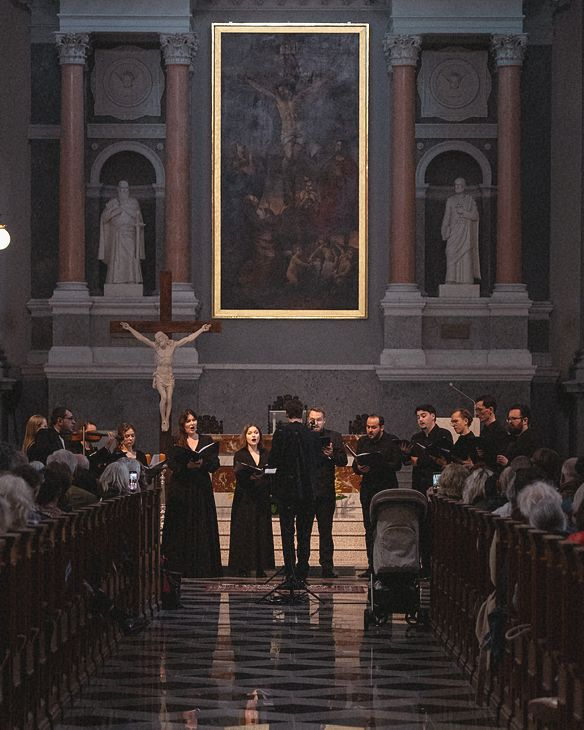
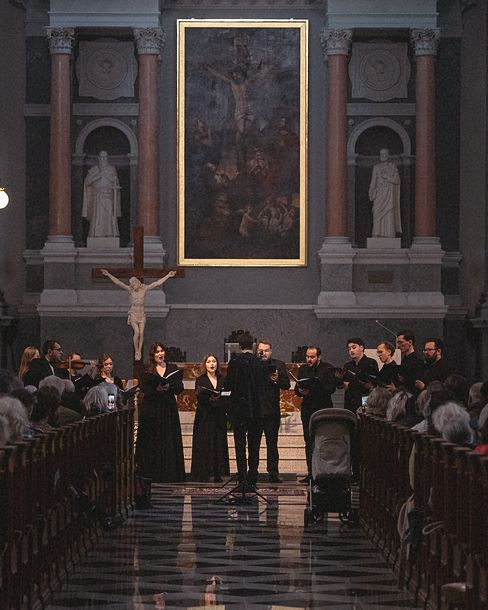
fix(outreach): the Pochwała Stworzenia letter's photographs in the prose's column
Taken to the sheet's edge, a pale photograph left the dark sheet no edge
where it lay on a white inbox: the church's pillars ran straight into the
client's ground. The pair and the church now stand between the prose's
gutters, 48px and 24px on a phone, and only the staves still cross the
sheet. The files are redrawn at exactly twice the new size, so their baked
grain keeps the sheet's scale. Revision 4 stands: no address carrying it
has been served yet.

diff --git a/backend/templates/emails/letter_pochwala_stworzenia.html b/backend/templates/emails/letter_pochwala_stworzenia.html
@@ -76,9 +76,13 @@
     line stand in the same place in both and what changes between them is the pews, empty and
     then full. Then the church turned round (audience.jpg): the nave seen from the altar, cut
     just above the photographer standing in the aisle, which also keeps the front rows out,
-    where single faces and children are recognisable. The pair is 292px each at 4:5 on a 16px
-    gutter, edge to edge like the staves, and the church takes the whole sheet beneath them
-    (600px, 5:4) and leads straight into the last staff. No caption explains the pair; the
+    where single faces and children are recognisable. The photographs stand in the prose's
+    column (504px between its 48px gutters, 24px on a phone), and only the staves run edge to
+    edge: a pale photograph taken to the edge of a sheet lying on a white inbox leaves the sheet
+    no edge there, the church's pillars dissolving into the client's ground. The pair is 244px
+    each at 4:5 on a 16px gutter, the church 504px at 5:4 beneath them, leading straight into
+    the last staff; each file is drawn at exactly 2x, so its baked grain matches the sheet's
+    on a desktop. No caption explains the pair; the
     alts say "the same view" for a reader who hears them. The rehearsal frame comes from the
     other camera, warmer and darker, and is drawn to the concert frame's tone by a per-channel
     curve, so the difference the eye finds is the people and not the grade. Sources and boxes
@@ -142,14 +146,14 @@ a { color: #d65a3c; }
     <div style="padding-top:16px;">{{ copy.otherwise }}</div>
   </td></tr>
 
-  <tr><td style="padding:64px 0 0;">
+  <tr><td class="col" style="padding:64px 48px 0;">
     <table role="presentation" width="100%" cellpadding="0" cellspacing="0" border="0"><tr>
-      <td width="292" valign="top" style="width:48.667%; font-size:0; line-height:0;"><a href="{{ page_url }}" style="text-decoration:none;"><img src="{{ asset_url }}/rehearsal.jpg{{ asset_query }}" width="292" height="365" alt="{{ copy.photo_alts.0 }}" style="display:block; width:100%; height:auto; border:0; color:#8f887c; font-family:'Palatino Linotype', Palatino, Georgia, serif; font-size:15px;"></a></td>
-      <td width="16" style="width:2.667%; font-size:0; line-height:0;">&nbsp;</td>
-      <td width="292" valign="top" style="width:48.667%; font-size:0; line-height:0;"><a href="{{ page_url }}" style="text-decoration:none;"><img src="{{ asset_url }}/concert.jpg{{ asset_query }}" width="292" height="365" alt="{{ copy.photo_alts.1 }}" style="display:block; width:100%; height:auto; border:0; color:#8f887c; font-family:'Palatino Linotype', Palatino, Georgia, serif; font-size:15px;"></a></td>
+      <td width="244" valign="top" style="width:48.413%; font-size:0; line-height:0;"><a href="{{ page_url }}" style="text-decoration:none;"><img src="{{ asset_url }}/rehearsal.jpg{{ asset_query }}" width="244" height="305" alt="{{ copy.photo_alts.0 }}" style="display:block; width:100%; height:auto; border:0; color:#8f887c; font-family:'Palatino Linotype', Palatino, Georgia, serif; font-size:15px;"></a></td>
+      <td width="16" style="width:3.175%; font-size:0; line-height:0;">&nbsp;</td>
+      <td width="244" valign="top" style="width:48.413%; font-size:0; line-height:0;"><a href="{{ page_url }}" style="text-decoration:none;"><img src="{{ asset_url }}/concert.jpg{{ asset_query }}" width="244" height="305" alt="{{ copy.photo_alts.1 }}" style="display:block; width:100%; height:auto; border:0; color:#8f887c; font-family:'Palatino Linotype', Palatino, Georgia, serif; font-size:15px;"></a></td>
     </tr></table>
   </td></tr>
-  <tr><td style="padding:16px 0 0; font-size:0; line-height:0;"><a href="{{ page_url }}" style="text-decoration:none;"><img src="{{ asset_url }}/audience.jpg{{ asset_query }}" width="600" height="480" alt="{{ copy.photo_alts.2 }}" style="display:block; width:100%; max-width:600px; height:auto; border:0; color:#8f887c; font-family:'Palatino Linotype', Palatino, Georgia, serif; font-size:15px;"></a></td></tr>
+  <tr><td class="col" style="padding:16px 48px 0; font-size:0; line-height:0;"><a href="{{ page_url }}" style="text-decoration:none;"><img src="{{ asset_url }}/audience.jpg{{ asset_query }}" width="504" height="403" alt="{{ copy.photo_alts.2 }}" style="display:block; width:100%; max-width:504px; height:auto; border:0; color:#8f887c; font-family:'Palatino Linotype', Palatino, Georgia, serif; font-size:15px;"></a></td></tr>
 
   <tr><td style="padding:48px 0 0; font-size:0; line-height:0;"><a href="{{ listen_url }}" style="text-decoration:none;"><img class="staff-wide" src="{{ asset_url }}/staff-sung.gif{{ asset_query }}" width="600" height="43" alt="" style="display:block; width:100%; max-width:600px; height:43px; border:0;"><!--[if !mso]><!--><img class="staff-narrow" src="{{ asset_url }}/staff-sung-narrow.gif{{ asset_query }}" width="390" height="43" alt="" style="display:none; width:100%; height:43px; max-height:0; overflow:hidden; border:0;"><!--<![endif]--></a></td></tr>
   <tr><td class="col" style="padding:8px 48px 0;">
